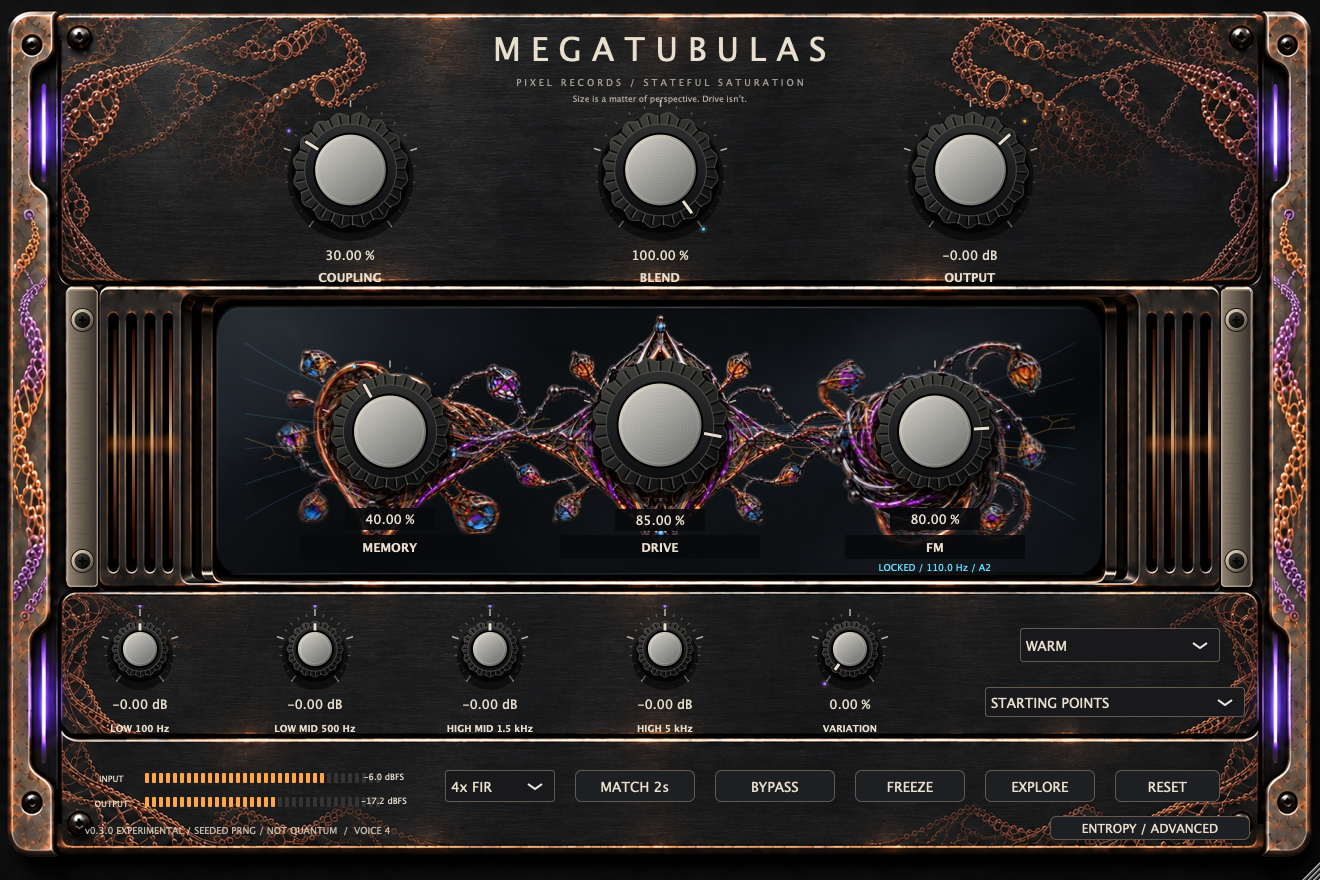
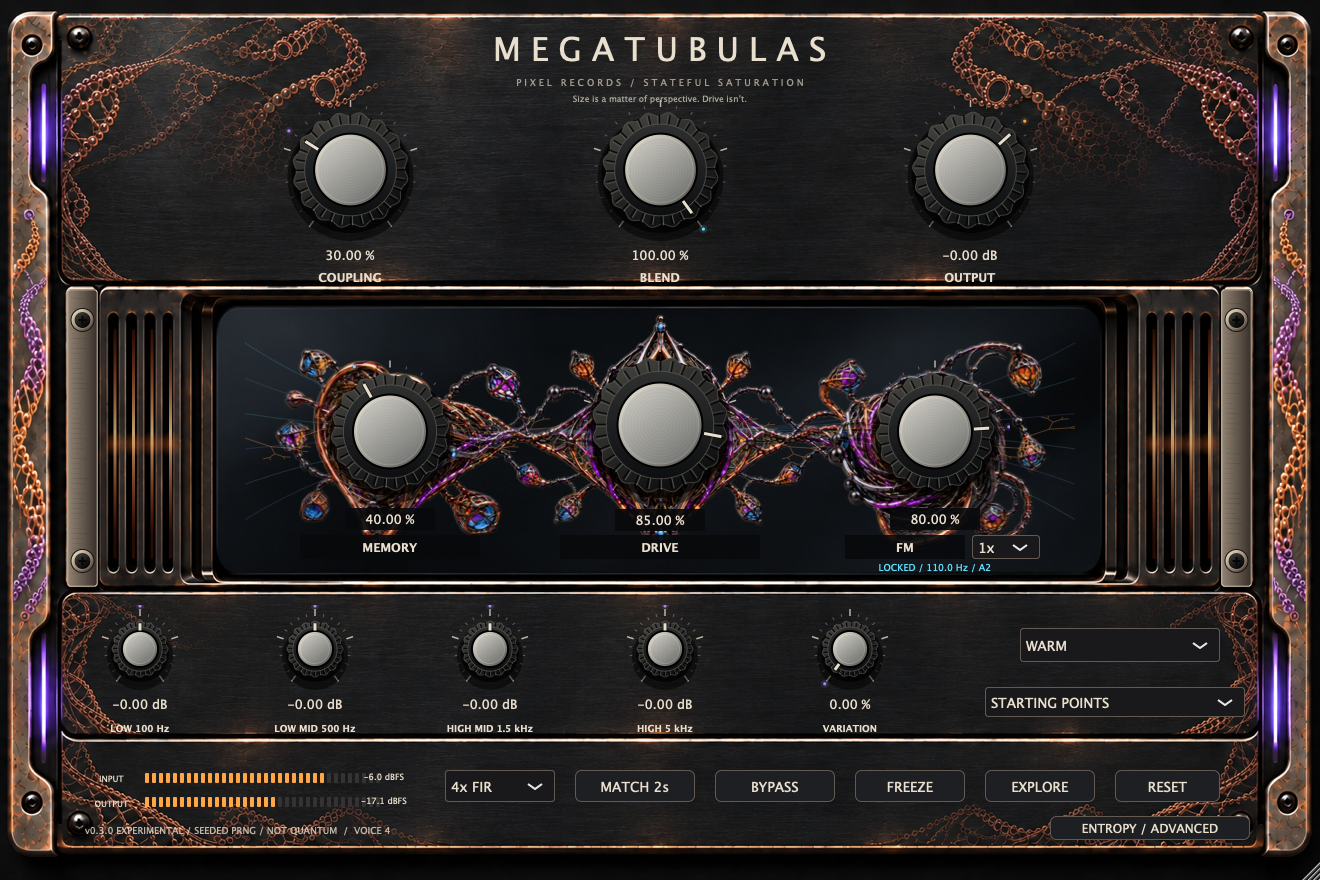
Preserve FM automation tails, expose ratio picker and default Depth to 66 percent

diff --git a/Marketing/site/index.html b/Marketing/site/index.html
@@ -41,7 +41,7 @@
     </section>
 
     <section class="sound section-wrap" id="sound" aria-labelledby="sound-title">
-      <div class="sound-copy"><p class="eyebrow">LESS GUESSING. MORE LISTENING.</p><h2 id="sound-title">Hear the<br><em>difference.</em></h2><p>One original bass phrase. Seven renders. The same RMS level, so louder doesn’t get a free vote.</p><p class="small">Rendered through the native plugin at 8× oversampling. This player switches recordings; it doesn’t run the plugin in your browser.</p></div>
+      <div class="sound-copy"><p class="eyebrow">LESS GUESSING. MORE LISTENING.</p><h2 id="sound-title">Hear the<br><em>difference.</em></h2><p>One original bass phrase. Eleven renders. The same RMS level, so louder doesn’t get a free vote.</p><p class="small">Rendered through the native plugin at 8× oversampling. This player switches recordings; it doesn’t run the plugin in your browser.</p></div>
       <div class="listening-deck">
         <div class="deck-header"><span class="eyebrow">BASS / 104 BPM</span><span id="audio-status" aria-live="polite">READY WHEN YOU ARE</span></div>
         <div class="wave" aria-hidden="true"><svg viewBox="0 0 600 110" preserveAspectRatio="none"><path d="M0 55H600" class="wave-axis"/><path d="M0 55 7 51 11 61 15 48 20 66 24 38 28 78 32 25 36 91 40 18 44 98 48 22 52 89 56 29 60 80 64 36 68 73 72 41 76 68 80 45 84 65 88 48 92 61 100 55 112 55 116 42 120 69 124 24 128 93 132 13 136 100 140 18 144 92 148 27 152 82 156 35 160 75 164 40 168 68 172 45 176 64 180 49 188 55 202 55 206 43 210 71 214 25 218 90 222 12 226 103 230 17 234 94 238 25 242 85 246 32 250 78 254 38 258 72 262 42 266 68 270 46 274 64 278 49 286 55 300 55 304 46 308 70 312 28 316 87 320 15 324 101 328 17 332 95 336 23 340 88 344 29 348 82 352 34 356 76 360 39 364 70 368 43 372 65 376 48 384 55 398 55 402 45 406 71 410 27 414 89 418 14 422 103 426 19 430 95 434 26 438 87 442 32 446 79 450 38 454 72 458 43 462 66 466 48 474 55 488 55 492 45 496 70 500 29 504 88 508 17 512 98 516 22 520 91 524 30 528 82 532 37 536 74 540 42 544 68 548 46 552 64 556 49 564 55H600" class="wave-line"/></svg><span class="playhead" id="playhead"></span></div>

diff --git a/Source/Editor.cpp b/Source/Editor.cpp
@@ -130,7 +130,7 @@ MicroEditor::MicroEditor(MicroProcessor& p):AudioProcessorEditor(p),processor(p)
  preLowLink=std::make_unique<juce::AudioProcessorValueTreeState::ComboBoxAttachment>(p.state,"preLow",preLow);preHighLink=std::make_unique<juce::AudioProcessorValueTreeState::ComboBoxAttachment>(p.state,"preHigh",preHigh);
  mode.addItemList({"WARM","TENSE","OPEN"},1);quality.addItemList({"4x FIR","8x FIR"},1);preset.addItemList({"Bass Foundation","Synth Amber","Drum Tension","Gentle Mix Colour","Fractal Motion"},1);preset.setText("STARTING POINTS",juce::dontSendNotification);preset.onChange=[this]{if(preset.getSelectedItemIndex()>=0)processor.setCurrentProgram(preset.getSelectedItemIndex());};
  modeLink=std::make_unique<juce::AudioProcessorValueTreeState::ComboBoxAttachment>(p.state,"mode",mode);qualityLink=std::make_unique<juce::AudioProcessorValueTreeState::ComboBoxAttachment>(p.state,"quality",quality);
- fmRatio.addItemList({"FM RATIO: 1x","FM RATIO: 2x","FM RATIO: 3x"},1);fmRatio.setTooltip("Integer harmonic modulation ratio: 1, 2 or 3 times the detected bass frequency.");fmRatioLink=std::make_unique<juce::AudioProcessorValueTreeState::ComboBoxAttachment>(p.state,"fmRatio",fmRatio);
+ fmRatio.addItemList({"1x","2x","3x"},1);fmRatio.setTitle("FM Ratio");fmRatio.setTooltip("Integer harmonic modulation ratio: 1, 2 or 3 times the detected bass frequency.");fmRatioLink=std::make_unique<juce::AudioProcessorValueTreeState::ComboBoxAttachment>(p.state,"fmRatio",fmRatio);
  for(auto* c:{&mode,&quality,&preset,&source,&preLow,&preHigh,&fmRatio}){addAndMakeVisible(c);c->setWantsKeyboardFocus(true);}
  source.addItemList({"Seeded PRNG","Imported entropy","Saved sequence"},1);source.setSelectedId(p.entropyConfig().kind+1,juce::dontSendNotification);source.onChange=[this]{auto c=processor.entropyConfig();c.kind=source.getSelectedId()-1;if(!processor.setEntropy(c)){detail.setText("Import a non-empty sequence first (or queue busy).",juce::dontSendNotification);source.setSelectedId(processor.entropyConfig().kind+1,juce::dontSendNotification);}};
  for(auto* b:{&freeze,&bypass,&match,&explore,&resetButton,&advanced,&importButton,&seedButton}){addAndMakeVisible(b);b->setWantsKeyboardFocus(true);}
@@ -160,14 +160,14 @@ void MicroEditor::resized(){float sx=std::min(getWidth()/1320.f,getHeight()/(exp
  for(int i=2;i<5;++i){float x=350.f+float(i-2)*310.f;bounds(knobs[size_t(i)],x-82.5f,96,165,170);bounds(labels[size_t(i)],x-100,265,200,24);}
  bounds(knobs[1],315,355,150,175);bounds(labels[1],300,535,180,24);
  bounds(knobs[0],570,341,180,190);bounds(labels[0],560,535,200,24);
- bounds(knobs[12],860,355,150,175);bounds(labels[12],845,535,180,24);bounds(fmStatus,820,558,230,18);
+ bounds(knobs[12],860,355,150,175);bounds(labels[12],845,535,120,24);bounds(fmRatio,972,535,68,24);bounds(fmStatus,820,558,230,18);
  for(int i=5;i<10;++i){float x=i==9?850.f:140.f+(i-5)*175.f;bounds(knobs[size_t(i)],x-60,605,120,110);bounds(labels[size_t(i)],x-82,718,164,20);}
  bounds(mode,1020,628,200,34);bounds(preset,985,687,260,30);
  bounds(quality,445,770,110,32);bounds(match,575,770,120,32);bounds(bypass,715,770,120,32);bounds(freeze,855,770,110,32);bounds(explore,985,770,110,32);bounds(resetButton,1115,770,105,32);
  bounds(status,80,820,1000,20);bounds(advanced,1050,816,200,24);
- bool visible=expanded;for(auto* c:std::array<juce::Component*,17>{&knobs[10],&labels[10],&knobs[11],&labels[11],&preLow,&preHigh,&source,&seed,&seedButton,&importButton,&motion,&ablate,&detail,&knobs[13],&labels[13],&fmRatio,&fmHelp})c->setVisible(visible);
+ bool visible=expanded;for(auto* c:std::array<juce::Component*,16>{&knobs[10],&labels[10],&knobs[11],&labels[11],&preLow,&preHigh,&source,&seed,&seedButton,&importButton,&motion,&ablate,&detail,&knobs[13],&labels[13],&fmHelp})c->setVisible(visible);
  bounds(knobs[10],65,895,120,100);bounds(labels[10],65,995,120,18);bounds(knobs[11],185,895,120,100);bounds(labels[11],185,995,120,18);bounds(preLow,345,954,200,30);bounds(preHigh,565,954,200,30);bounds(source,345,906,200,30);bounds(seed,565,906,100,30);bounds(seedButton,680,906,90,30);bounds(importButton,785,906,145,30);bounds(motion,960,904,250,26);bounds(ablate,960,943,310,26);bounds(detail,345,995,800,45);
- bounds(knobs[13],95,1075,135,110);bounds(labels[13],75,1190,175,20);bounds(fmRatio,330,1110,200,34);bounds(fmHelp,585,1070,620,125);
+ bounds(knobs[13],95,1075,135,110);bounds(labels[13],75,1190,175,20);bounds(fmHelp,585,1070,620,125);
 }
 void MicroEditor::drawFrame(juce::Graphics& g){float h=expanded?1230.f:880.f;
  // One 3:2 plate, one uniform scale: never stretch individual material strips.

diff --git a/Tests/Tests.cpp b/Tests/Tests.cpp
@@ -35,6 +35,38 @@ int main(int argc,char** argv){
   p.blend=0;auto dryFM=render(fs,127,factor,p,input);p.fmAmount=0;auto dryLegacy=render(fs,127,factor,p,input);check(dryFM==dryLegacy,"FM leaves Blend-zero dry path unchanged");
  }
  {micro::Parameters p;p.fmAmount=100;p.fmDepth=100;p.drive=50;micro::Pipeline pipe;pipe.set(p);pipe.prepare(48000,127,2,4);std::array<float,127> l{},r{};double phase=0;bool finite=true;for(int block=0;block<700;++block){for(int i=0;i<127;++i){phase+=2*micro::pi*55/48000;double x=block<250?.3*std::sin(phase):0;l[size_t(i)]=float(x);r[size_t(i)]=float(-x);}float* ptr[]={l.data(),r.data()};pipe.process(ptr,127);for(float x:l)finite&=std::isfinite(x);if(block==200)check(pipe.pitchEstimate().locked&&std::abs(pipe.pitchEstimate().hz-55)<.5,"FM pipeline detects anti-phase stereo bass");}double tail=0;for(float x:l)tail=std::max(tail,std::abs(double(x)));check(finite&&tail<1e-6&&!pipe.pitchEstimate().locked,"FM pipeline settles after note release without autonomous tail");}
+ // Rapid zero crossings must release/reacquire without truncating an audible FM voice.
+ for(bool depthToggle:{false,true})for(double hz:{25.,55.,110.}){
+  micro::Parameters p;p.drive=0;p.fmAmount=100;p.fmDepth=70;
+  micro::Pipeline pipe;pipe.set(p);pipe.prepare(48000,1,1,4);
+  float sample=0;float* data[]={&sample};double previous=0,maxStep=0;bool finite=true;
+  for(int i=0;i<48000;++i){
+   // Multiple phases of the settled voice; each off period is just 1 ms.
+   if(i>=16000&&i<40000&&(i-16000)%6000==0){if(depthToggle)p.fmDepth=0;else p.fmAmount=0;pipe.set(p);}
+   if(i>=16048&&i<40048&&(i-16048)%6000==0){p.fmAmount=100;p.fmDepth=70;pipe.set(p);}
+   sample=float(.5*std::sin(2*micro::pi*hz*i/48000));pipe.process(data,1);
+   if(i>15000){maxStep=std::max(maxStep,std::abs(double(sample)-previous));finite&=std::isfinite(sample);}
+   previous=sample;
+  }
+  std::cout<<"rapid FM toggle,"<<depthToggle<<','<<hz<<','<<maxStep<<'\n';
+  check(finite&&maxStep<.02,"rapid Amount/Depth zero crossing preserves smooth FM tail");
+ }
+ // Anti-phase bass switches the strongest channel smoothly; inspect the full handoff.
+ // A transient may move within the specified 50-cent continuity window; settled error stays <20.
+ {micro::Parameters p;p.drive=50;p.fmAmount=100;p.fmDepth=80;
+  micro::Pipeline pipe;pipe.set(p);pipe.prepare(48000,1,2,4);
+  float l=0,r=0;float* data[]={&l,&r};double previousL=0,previousR=0,maxStep=0,peak=0;int badLocks=0,goodLocks=0;bool finite=true;
+  for(int i=0;i<48000;++i){double cross=std::clamp((i-21600)/960.,0.,1.),x=std::sin(2*micro::pi*55*i/48000);
+   l=float((.3-.27*cross)*x);r=float(-(.03+.27*cross)*x);pipe.process(data,1);
+   if(i>=21000&&i<39000){auto e=pipe.pitchEstimate();badLocks+=e.locked&&std::abs(1200*std::log2(e.hz/55))>50;goodLocks+=e.locked;
+    peak=std::max({peak,std::abs(double(l)),std::abs(double(r))});maxStep=std::max({maxStep,std::abs(double(l)-previousL),std::abs(double(r)-previousR)});finite&=std::isfinite(l)&&std::isfinite(r);}
+   previousL=l;previousR=r;
+  }
+  std::cout<<"FM channel handoff,"<<goodLocks<<','<<badLocks<<','<<peak<<','<<maxStep<<'\n';
+  check(pipe.pitchEstimate().locked&&std::abs(1200*std::log2(pipe.pitchEstimate().hz/55))<20,"handoff returns to settled pitch within 20 cents");
+  check(goodLocks>12000&&badLocks==0,"stronger-channel handoff avoids wrong pitch throughout switch/recovery");
+  check(finite&&peak<.8&&maxStep<.03,"stronger anti-phase channel handoff produces no audio burst");
+ }
  check(micro::animationFrame(0,0)==0&&micro::animationFrame(0,1)==7.5f&&micro::animationFrame(0,2)==0,"one source-second forward / back animation window");
  check(micro::animationFrame(1,0)==22.5f&&micro::animationFrame(1,1)==30&&micro::animationFrame(.5f,1,false)==11.25f,"Drive chooses animation start / reduced motion");
 

diff --git a/Tests/Integration.cpp b/Tests/Integration.cpp
@@ -17,13 +17,14 @@ public:
   if(hasFM){
    auto set=[](MicroProcessor& p,const char* id,float value){auto* parameter=p.state.getParameter(id);parameter->setValueNotifyingHost(parameter->convertTo0to1(value));};
    check(a.state.getRawParameterValue("fmAmount")->load()==0,"FM defaults off");
+   check(a.state.getRawParameterValue("fmDepth")->load()==66&&a.state.getParameter("fmDepth")->convertFrom0to1(a.state.getParameter("fmDepth")->getDefaultValue())==66,"FM Depth defaults and double-click reset to 66 percent");
    set(a,"fmAmount",80);set(a,"fmDepth",65);set(a,"fmRatio",2);process(a);juce::MemoryBlock fmState;a.getStateInformation(fmState);b.setStateInformation(fmState.getData(),int(fmState.getSize()));process(b);
    check(b.state.getRawParameterValue("fmAmount")->load()==80&&b.state.getRawParameterValue("fmDepth")->load()==65&&b.state.getRawParameterValue("fmRatio")->load()==2,"FM values survive session round trip");
    auto xml=juce::AudioProcessor::getXmlFromBinary(fmState.getData(),int(fmState.getSize()));auto old=juce::ValueTree::fromXml(*xml);
    for(int i=old.getNumChildren()-1;i>=0;--i)if(old.getChild(i)["id"].toString().startsWith("fm"))old.removeChild(i,nullptr);
    juce::MemoryBlock oldState;juce::AudioProcessor::copyXmlToBinary(*old.createXml(),oldState);b.setStateInformation(oldState.getData(),int(oldState.getSize()));process(b);
-   check(b.state.getRawParameterValue("fmAmount")->load()==0&&b.state.getRawParameterValue("fmDepth")->load()==25&&b.state.getRawParameterValue("fmRatio")->load()==0,"loading legacy state clears previously enabled FM and restores defaults");
-   for(int preset=0;preset<5;++preset){set(a,"fmAmount",100);set(a,"fmDepth",100);set(a,"fmRatio",2);a.setCurrentProgram(preset);process(a);check(a.state.getRawParameterValue("fmAmount")->load()==0&&a.state.getRawParameterValue("fmDepth")->load()==25&&a.state.getRawParameterValue("fmRatio")->load()==0,"existing presets explicitly reset all FM parameters");}
+   check(b.state.getRawParameterValue("fmAmount")->load()==0&&b.state.getRawParameterValue("fmDepth")->load()==66&&b.state.getRawParameterValue("fmRatio")->load()==0,"loading legacy state clears previously enabled FM and restores defaults");
+   for(int preset=0;preset<5;++preset){set(a,"fmAmount",100);set(a,"fmDepth",100);set(a,"fmRatio",2);a.setCurrentProgram(preset);process(a);check(a.state.getRawParameterValue("fmAmount")->load()==0&&a.state.getRawParameterValue("fmDepth")->load()==66&&a.state.getRawParameterValue("fmRatio")->load()==0,"existing presets explicitly reset all FM parameters");}
    for(int n=0;n<30;++n){set(a,"fmAmount",n%2?100:40);set(a,"fmRatio",float(n%3));set(a,"fmDepth",float((n*17)%101));process(a);}check(allocationCount==0,"FM automation causes no guarded callback allocation");
    // Lifecycle replay with a continuous single-note fixture; no device is opened.
    set(a,"fmAmount",90);set(a,"fmDepth",70);set(a,"fmRatio",1);set(a,"freeze",1);

diff --git a/Tests/Preview.cpp b/Tests/Preview.cpp
@@ -21,7 +21,7 @@ public:
  const juce::String getApplicationName() override{return "MicroPreview";}const juce::String getApplicationVersion() override{return "0.2";}
  void initialise(const juce::String& args) override {
   audit=args.startsWith("--audit ");layout=args.startsWith("--layout ");const auto path=(audit?args.substring(8):layout?args.substring(9):args).unquoted();folder=path.isEmpty()?juce::File::getCurrentWorkingDirectory().getChildFile("Artwork/Layers"):juce::File(path);folder.createDirectory();
-  processor=std::make_unique<MicroProcessor>();processor->prepareToPlay(48000,127);if(layout){auto* a=processor->state.getParameter("fmAmount");a->setValueNotifyingHost(.8f);auto* depth=processor->state.getParameter("fmDepth");depth->setValueNotifyingHost(.7f);auto* drive=processor->state.getParameter("drive");drive->setValueNotifyingHost(.85f);}
+  processor=std::make_unique<MicroProcessor>();processor->prepareToPlay(48000,127);if(layout){auto* a=processor->state.getParameter("fmAmount");a->setValueNotifyingHost(.8f);auto* drive=processor->state.getParameter("drive");drive->setValueNotifyingHost(.85f);}
   if(!audit)for(int n=0;n<500;++n)signal(.5f,127);
   editor=std::make_unique<MicroEditor>(*processor);
   if(audit){brightness.reserve(180);startTimerHz(30);}else juce::Timer::callAfterDelay(500,[this]{editor->exportLayers(folder);if(layout){

diff --git a/Tests/FMTests.cpp b/Tests/FMTests.cpp
@@ -24,8 +24,8 @@ void detectorTests(){
   check(!e.locked&&std::isfinite(e.hz)&&e.envelope[0]<1e-4,"silence and invalid samples release tracking");
  }
  {micro::PitchTracker t;t.prepare(48000,2);micro::PitchEstimate e{};double phase=0;int bad=0,good=0;
-  for(int i=0;i<72000;++i){double hz=i<24000?55.:i<48000?110.:110.+20.*(i-48000)/24000.;phase+=2*micro::pi*hz/48000;double x=.3*bass(phase,1);e=t.process(i<36000?x:x*.1,i<36000?x*.1:-x);if(i>30000&&i<35000){bad+=e.locked&&cents(e.hz,110)>20;good+=e.locked;}if(i>60000)bad+=e.locked&&cents(e.hz,hz)>80;}
-  check(good>4000&&bad==0,"octave change, channel switch and bend avoid wrong stable locks");check(e.locked&&cents(e.hz,130)<80,"continuous bend is followed without semitone quantization");
+  for(int i=0;i<72000;++i){double hz=i<24000?55.:i<48000?110.:110.+20.*(i-48000)/24000.;phase+=2*micro::pi*hz/48000;double x=.3*bass(phase,1);e=t.process(i<36000?x:x*.1,i<36000?x*.1:-x);if(i>30000&&i<48000){bad+=e.locked&&cents(e.hz,110)>20;good+=e.locked;}if(i>60000)bad+=e.locked&&cents(e.hz,hz)>80;}
+  check(good>14000&&bad==0,"octave change, channel switch and bend avoid wrong stable locks");check(e.locked&&cents(e.hz,130)<80,"continuous bend is followed without semitone quantization");
   t.reset();check(!t.process(0,0).locked,"reset clears note lock");
  }
 }

diff --git a/Source/PitchTracker.h b/Source/PitchTracker.h
@@ -53,7 +53,7 @@ public:
   attack=std::exp(-1/(.003*rate));release=std::exp(-1/(.08*rate));energyA=std::exp(-1/(.05*rate));
   for(auto& channel:filters){channel[0].prepare(rate,.5176380902050415);channel[1].prepare(rate,.7071067811865476);channel[2].prepare(rate,1.9318516525781366);}reset();
  }
- void reset() noexcept {for(auto& channel:filters)for(auto& f:channel)f.z1=f.z2=0;ring={};energy={};estimate={};candidateHz=0;decimationClock=write=filled=hopClock=selected=switchClock=streak=0;selectedInitially=false;jobLag=0;differenceSum=0;}
+ void reset(bool preserveEnvelope=false) noexcept {const auto envelope=estimate.envelope;for(auto& channel:filters)for(auto& f:channel)f.z1=f.z2=0;ring={};energy={};estimate={};candidateHz=0;decimationClock=write=filled=hopClock=selected=switchClock=streak=0;selectedInitially=false;jobLag=0;differenceSum=0;if(preserveEnvelope)estimate.envelope=envelope;}
  PitchEstimate process(double left,double right) noexcept {
   std::array<double,2> x{finite(left),finite(channels==1?left:right)};
   for(size_t c=0;c<2;++c){double amplitude=std::abs(x[c]),a=amplitude>estimate.envelope[c]?attack:release;estimate.envelope[c]=a*estimate.envelope[c]+(1-a)*amplitude;for(auto& f:filters[c])x[c]=f.sample(x[c]);energy[c]=energyA*energy[c]+(1-energyA)*x[c]*x[c];}

diff --git a/Source/Pipeline.h b/Source/Pipeline.h
@@ -55,8 +55,10 @@ public:
   inputPeak=outputPeak=0;
   for(int offset=0;offset<count;offset+=capacity){int n=std::min(capacity,count-offset);
    const bool wantsFM=fmEnabled();
-   if(wantsFM&&!tracking){tracker.reset();fm.reset();lastPitch={};previousFM={};tracking=true;}
-   else if(!wantsFM&&tracking){tracker.reset();tracking=false;lastPitch.locked=false;lastPitch.confidence=0;}
+   // Reacquire pitch without truncating the outgoing oscillator/filter fade.
+   // Retain detector envelope continuity across rapid zero-crossing automation.
+   if(wantsFM&&!tracking){tracker.reset(true);lastPitch.locked=false;lastPitch.confidence=0;tracking=true;}
+   else if(!wantsFM&&tracking){tracker.reset(true);tracking=false;lastPitch.locked=false;lastPitch.confidence=0;}
    for(int i=0;i<n;++i){preLow=smoothing*preLow+(1-smoothing)*(p.preLow-1)*4.;preHigh=smoothing*preHigh+(1-smoothing)*(p.preHigh-1)*4.;
     if(preClock++%32==0)for(auto& ch:preFilters)for(int b=0;b<2;++b)ch[b].c=Biquad::coefficients(b==0?0:3,b==0?preLow:preHigh,fs);
     inGain=smoothing*inGain+(1-smoothing)*gain(p.input);

diff --git a/Source/Processor.cpp b/Source/Processor.cpp
@@ -19,7 +19,7 @@ juce::AudioProcessorValueTreeState::ParameterLayout MicroProcessor::layout(){
  add("wetLevel","Wet level",-24,12,0,"dB");
  l.add(std::make_unique<juce::AudioParameterChoice>(juce::ParameterID{"preLow",1},"Bass into saturation",juce::StringArray{"Tight (-4 dB)","Flat","Full (+4 dB)"},1));
  l.add(std::make_unique<juce::AudioParameterChoice>(juce::ParameterID{"preHigh",1},"Treble into saturation",juce::StringArray{"Soft (-4 dB)","Flat","Bright (+4 dB)"},1));
- add("fmAmount","Experimental FM amount",0,100,0,"%");add("fmDepth","Experimental FM depth",0,100,25,"%");
+ add("fmAmount","Experimental FM amount",0,100,0,"%");add("fmDepth","Experimental FM depth",0,100,66,"%");
  l.add(std::make_unique<juce::AudioParameterChoice>(juce::ParameterID{"fmRatio",1},"Experimental FM ratio",juce::StringArray{"1x","2x","3x"},0));
  // Source is configuration, deliberately not an automatable parameter; reserved ID omitted.
  return l;

diff --git a/Tests/Render.cpp b/Tests/Render.cpp
@@ -6,7 +6,7 @@
 #include <cerrno>
 int main(int argc,char** argv){
  if(argc<4){std::cerr<<"MegaRender input.wav output.wav dry|drive [mode 0..2] [match -20 dBFS RMS: 0|1] [memory 0..100] [coupling 0..100] [FM amount 0..100] [FM depth 0..100] [FM ratio index 0..2] [pitch.csv]\n";return 1;}
- double amount=0,depth=25,ratio=0;
+ double amount=0,depth=66,ratio=0;
  auto number=[&](int index,double maximum,double& value,bool integer=false){if(argc<=index)return true;char* end=nullptr;errno=0;double parsed=std::strtod(argv[index],&end);if(errno||end==argv[index]||*end||!std::isfinite(parsed)||parsed<0||parsed>maximum||(integer&&parsed!=std::floor(parsed)))return false;value=parsed;return true;};
  if(argc>12||!number(8,100,amount)||!number(9,100,depth)||!number(10,2,ratio,true)){std::cerr<<"Invalid FM arguments\n";return 1;}
  const juce::File input(juce::String::fromUTF8(argv[1])),output(juce::String::fromUTF8(argv[2]));

diff --git a/Source/HarmonicFM.h b/Source/HarmonicFM.h
@@ -5,7 +5,7 @@ struct FMControl {double hz=0,gate=0;std::array<double,2> envelope{};};
 // A pitch-controlled synthesis layer, not modulation of the recorded waveform.
 class HarmonicFM {
  double fs=192000,paramA=0,pitchA=0,gateAttack=0,gateRelease=0,dcA=0;
- double targetAmount=0,targetDepth=.25,amount=0,depth=0,phase=0,hz=0,lockGain=0;
+ double targetAmount=0,targetDepth=.66,amount=0,depth=0,phase=0,hz=0,lockGain=0;
  int ratio=1,remaining=0,rampLength=1;
  std::array<double,3> weights{1,0,0},weightStep{};
  std::array<double,2> dcX{},dcY{},z1{},z2{};

diff --git a/Source/Core.h b/Source/Core.h
@@ -13,7 +13,7 @@ struct Parameters {
  double wetLevel=0;int preLow=1,preHigh=1;
  std::array<double,4> eq{}; double variation=0; int mode=0;
  bool freeze=false, bypass=false, ablate=false;
- double fmAmount=0,fmDepth=25;int fmRatio=0;
+ double fmAmount=0,fmDepth=66;int fmRatio=0;
 };
 struct EntropyConfig {
  enum Kind { seeded, imported, replay }; int kind=seeded;
